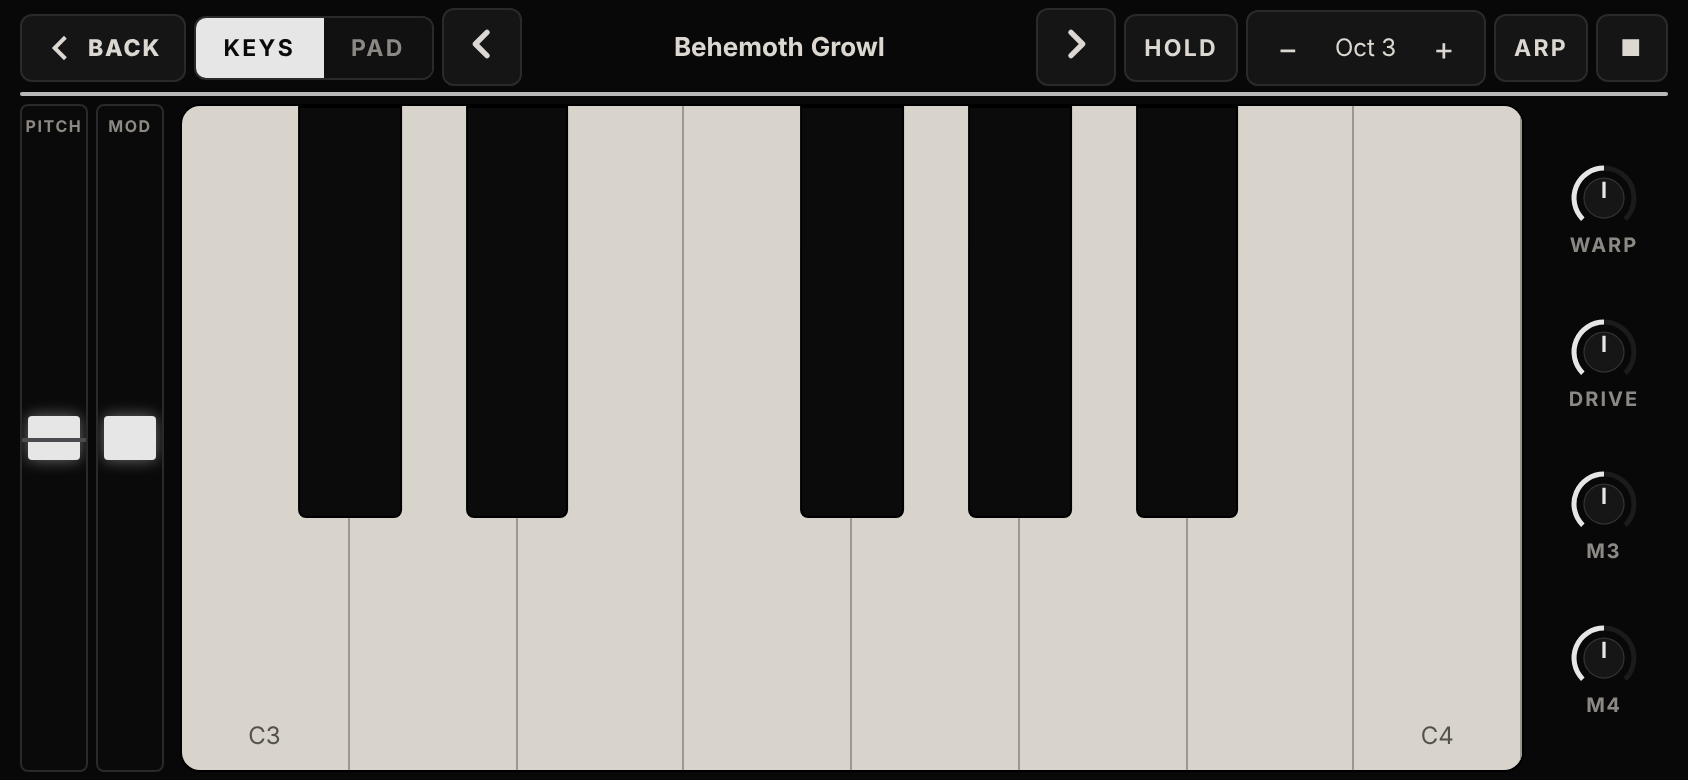
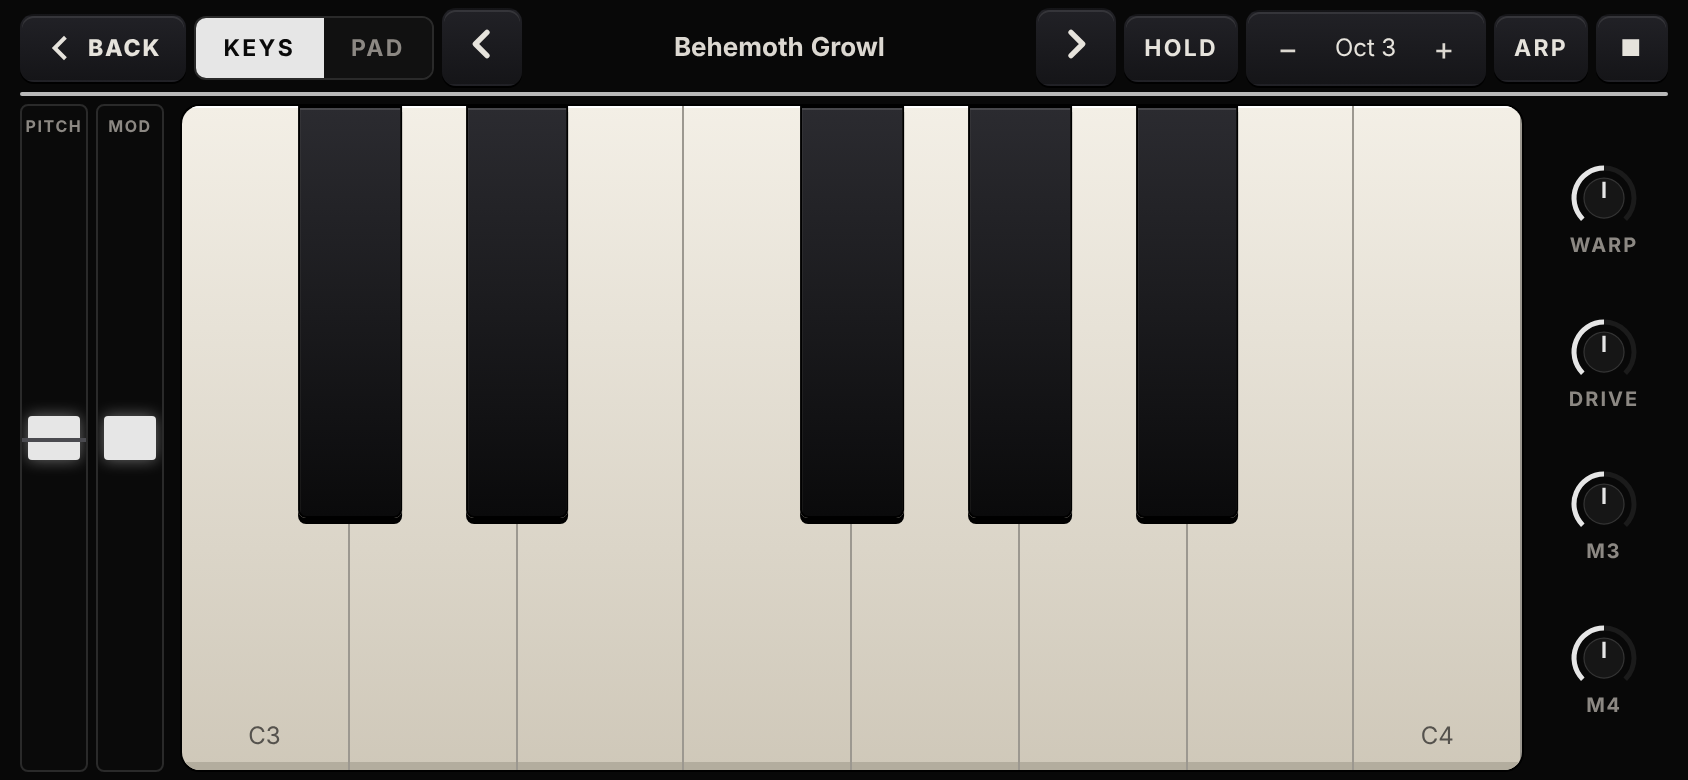
Add files via upload

diff --git a/index.html b/index.html
@@ -116,11 +116,11 @@ input[type=range]::-moz-range-thumb { width: 22px; height: 22px; border-radius: 
 .empty { color: var(--dim); font-size: 12px; padding: 6px 2px 8px; line-height: 1.5; }
 
 /* play */
-#surface, #surfaceQ , #surfaceS, #surfaceD { position: relative; display: grid; grid-template-columns: repeat(8, 1fr); height: 210px; border-radius: 14px; overflow: hidden; background: #060607; border: 1px solid var(--line); touch-action: none; }
-#surface .cell, #surfaceQ .cell, #surfaceS .cell, #surfaceD .cell { border-right: 1px solid #141415; position: relative; display: flex; align-items: flex-end; justify-content: center; padding-bottom: 8px; font-family: var(--f-mono); font-size: 11px; color: var(--dim); transition: background .08s; }
-#surface .cell.root, #surfaceQ .cell.root, #surfaceS .cell.root, #surfaceD .cell.root { background: #0e0e0f; color: var(--mute); }
-#surface .cell.on, #surfaceQ .cell.on, #surfaceS .cell.on, #surfaceD .cell.on { color: var(--fg); }
-#surface .dotp, #surfaceQ .dotp, #surfaceS .dotp, #surfaceD .dotp { position: absolute; width: 46px; height: 46px; margin: -23px 0 0 -23px; border-radius: 50%; border: 2px solid var(--c-touch); background: color-mix(in srgb, var(--c-touch) 28%, transparent); pointer-events: none; display: none; }
+#surface, #surfaceQ , #surfaceS { position: relative; display: grid; grid-template-columns: repeat(8, 1fr); height: 210px; border-radius: 14px; overflow: hidden; background: #060607; border: 1px solid var(--line); touch-action: none; }
+#surface .cell, #surfaceQ .cell, #surfaceS .cell .cell { border-right: 1px solid #141415; position: relative; display: flex; align-items: flex-end; justify-content: center; padding-bottom: 8px; font-family: var(--f-mono); font-size: 11px; color: var(--dim); transition: background .08s; }
+#surface .cell.root, #surfaceQ .cell.root, #surfaceS .cell.root .cell.root { background: #0e0e0f; color: var(--mute); }
+#surface .cell.on, #surfaceQ .cell.on, #surfaceS .cell.on .cell.on { color: var(--fg); }
+#surface .dotp, #surfaceQ .dotp, #surfaceS .dotp .dotp { position: absolute; width: 46px; height: 46px; margin: -23px 0 0 -23px; border-radius: 50%; border: 2px solid var(--c-touch); background: color-mix(in srgb, var(--c-touch) 28%, transparent); pointer-events: none; display: none; }
 .kbd { position: relative; height: 96px; display: flex; touch-action: none; overflow: hidden; }
 .kbd .wk { flex: 1; position: relative; display: flex; align-items: flex-end; justify-content: center; padding-bottom: 5px; font-size: 10px; font-family: var(--f-mono); }
 
@@ -259,9 +259,9 @@ header#top { padding-bottom: 8px; margin-bottom: 4px; border-bottom: 1px solid v
 .knob .vv { color: var(--fg); }
 .knob.armed svg { filter: drop-shadow(0 0 6px var(--arm)); }
 
-canvas.vis, #scope, .meter, #surface, #surfaceQ, #surfaceS, #surfaceD { background: #070707; border: 1px solid #222; border-radius: 5px; box-shadow: none; }
+canvas.vis, #scope, .meter, #surface, #surfaceQ, #surfaceS { background: #070707; border: 1px solid #222; border-radius: 5px; box-shadow: none; }
 .meter b { background: linear-gradient(to top, color-mix(in srgb, var(--accent) 45%, #000), var(--accent) 70%, color-mix(in srgb, var(--accent) 60%, #fff)); }
-#surface .cell.on, #surfaceQ .cell.on, #surfaceS .cell.on, #surfaceD .cell.on { background: radial-gradient(120% 90% at 50% 100%, color-mix(in srgb, var(--accent) 40%, transparent), color-mix(in srgb, var(--accent) 6%, transparent) 70%), #070707; }
+#surface .cell.on, #surfaceQ .cell.on, #surfaceS .cell.on .cell.on { background: radial-gradient(120% 90% at 50% 100%, color-mix(in srgb, var(--accent) 40%, transparent), color-mix(in srgb, var(--accent) 6%, transparent) 70%), #070707; }
 .dotp { background: radial-gradient(circle, #fff 0 18%, var(--accent) 42%, transparent 72%) !important; }
 
 nav#tabs { background: var(--bg); border-top: 1px solid var(--line); box-shadow: none; }
@@ -678,6 +678,36 @@ button:focus-visible, .chip:focus-visible, .pill:focus-visible { outline: 2px so
   #stage .main.m-keys { justify-content: flex-end; }
   #stage .main.m-keys .kbd { max-height: 600px; }
 }
+/* Family skin (black and white): raised keys, recessed cards, dot-matrix glass.
+   Cheap to paint on a phone: no blurred shadows on repeated controls, no filters, no glow blur, no overlay layers.
+   BEHEMOTH is dense, so the key edge is a single hard pixel line and the cards stay flat. */
+/* one backdrop for the whole page, so nothing shows as a frame around the app */
+html{background:#0b0b0d}
+body{background:linear-gradient(#141417,#0b0b0d 360px) no-repeat #0b0b0d}
+#app{background:none}
+.hbtn,.pill,.pnav,.chip,.tn,.cap,.stepper{border-color:transparent;border-radius:7px;background:linear-gradient(#212126,#151518);color:#e6e3dc;box-shadow:inset 0 1px 0 #ffffff18,0 1px 0 #000}
+.hbtn:active,.pill:active,.pnav:active,.chip:active,.tn:active{transform:translateY(1px);box-shadow:inset 0 1px 0 #ffffff0e}
+.pill.on,.chip.on,.hbtn.on,.pnav.on,.tn.on,.cap.on{background:linear-gradient(#34343a,#1e1e22);color:#fff;box-shadow:inset 0 0 0 1px #f2efe8}
+.hbtn.rec,button.hbtn.rec{color:#ff6a5a}
+.card{background:linear-gradient(#101013,#0c0c0e);border:0;border-radius:12px;box-shadow:inset 0 0 0 1px #1d1d22,inset 0 2px 6px #000a}
+.glass{background:repeating-linear-gradient(0deg,#0000 0 2px,#00000026 2px 3px),radial-gradient(120% 140% at 30% 0%,#1c1c20,#08080a 70%);border-radius:9px;box-shadow:inset 0 0 0 1px #000,0 0 0 3px #17171b,0 0 0 4px #000}
+.kbd .wk{background:linear-gradient(#f3efe6,#cfc8b9);box-shadow:inset 0 -4px 0 #b3ad9e,inset 0 1px 0 #fff;border-right:1px solid #9c9890}
+.kbd .wk.on{background:var(--accent);box-shadow:none}
+.kbd .bk{background:linear-gradient(#2b2b30,#0a0a0b);box-shadow:inset 0 1px 0 #ffffff22,0 3px 0 #000}
+#rail,nav#tabs{background:linear-gradient(#0d0d10,#08080a)}
+
+/* quick number entry */
+.qnum{position:fixed;z-index:500;width:94px;height:44px;box-sizing:border-box;text-align:center;font:700 22px "Helvetica Neue",Helvetica,Arial,sans-serif;color:#fff;background:#0a0a0c;border:0;border-radius:8px;box-shadow:inset 0 0 0 2px #f2efe8,0 8px 24px #000c;outline:none;-webkit-appearance:none;appearance:none;user-select:text;-webkit-user-select:text}
+.qt{border-bottom:1px dotted #ffffff55;cursor:text}
+/* the rest of the keys: dialog buttons, snapshots, minis, the preset picker */
+.btn,.snap,.mini,.pgroup>button{border-color:transparent;border-radius:7px;background:linear-gradient(#222227,#151518);color:#e6e3dc;box-shadow:inset 0 1px 0 #ffffff1a,0 2px 0 #000}
+.btn:active,.snap:active,.mini:active{transform:translateY(1px);box-shadow:inset 0 1px 0 #ffffff0e,0 1px 0 #000}
+.btn.pri{background:linear-gradient(#f3efe6,#d2cbbc);color:#1a1a1d;box-shadow:inset 0 1px 0 #fff,0 2px 0 #7d7666}
+.btn.on,.snap.on,.mini.on,.chip.on,.pill.on{background:linear-gradient(#34343a,#1e1e22)!important;color:#fff!important;box-shadow:inset 0 0 0 1px #f2efe8,0 2px 0 #000!important}
+
+/* portrait: option rows wrap instead of running off the edge; the source bar scrolls and fades at the right */
+@media (orientation:portrait){.chips{flex-wrap:wrap;overflow:visible}}
+#srcbar{-webkit-mask-image:linear-gradient(90deg,#000 calc(100% - 22px),#0000);mask-image:linear-gradient(90deg,#000 calc(100% - 22px),#0000)}
 </style>
 </head>
 <body>
@@ -2275,10 +2305,26 @@ function Switch(k, cb) {
   function fn() { s.classList.toggle('on', P[k] >= 0.5); }
   binders.push({ k: k, fn: fn }); fn(); return s;
 }
+/* Quick number entry: tap a counter, type the value, Enter or tap away to apply, Escape to cancel */
+function quickNum(anchor, cur, min, max, apply) {
+  var r = anchor.getBoundingClientRect(), i = document.createElement('input'), done = false;
+  i.type = 'text'; i.inputMode = 'numeric'; i.setAttribute('pattern', '[0-9]*'); i.value = Math.round(cur); i.className = 'qnum'; i.setAttribute('aria-label', 'Type a value');
+  i.style.left = Math.max(6, Math.min(innerWidth - 100, r.left + r.width / 2 - 47)) + 'px'; i.style.top = Math.max(6, r.top + r.height / 2 - 22) + 'px';
+  document.body.appendChild(i); i.focus(); i.select();
+  function fin(ok) {
+    if (done) return; done = true;
+    var v = parseFloat(String(i.value).replace(',', '.'));
+    if (ok && isFinite(v)) apply(Math.min(max, Math.max(min, Math.round(v))));
+    if (i.parentNode) i.parentNode.removeChild(i);
+  }
+  i.addEventListener('keydown', function (e) { if (e.key === 'Enter') fin(true); else if (e.key === 'Escape') fin(false); e.stopPropagation(); });
+  i.addEventListener('blur', function () { fin(true); });
+}
 function Stepper(k, step, fmt, min, max) {
   var sp = h('span'), lo = min !== undefined ? min : S.PARAMS[k][1], hi = max !== undefined ? max : S.PARAMS[k][2];
   var st = h('div', { class: 'stepper' }, h('button', { type: 'button', onclick: function () { setP(k, clamp(P[k] - step, lo, hi)); } }, '−'), sp, h('button', { type: 'button', onclick: function () { setP(k, clamp(P[k] + step, lo, hi)); } }, '+'));
   function fn() { sp.textContent = fmt(P[k]); }
+  if (k === 'bpm') { sp.className = 'qt'; sp.setAttribute('role', 'button'); sp.setAttribute('aria-label', 'Tempo: tap to type a value'); sp.addEventListener('click', function () { quickNum(sp, P[k], lo, hi, function (v) { setP(k, v); }); }); }
   binders.push({ k: k, fn: fn }); fn(); return st;
 }
 function card(title, kids, cls, right) {

diff --git a/src/css/family.css b/src/css/family.css
@@ -1,0 +1,30 @@
+/* Family skin (black and white): raised keys, recessed cards, dot-matrix glass.
+   Cheap to paint on a phone: no blurred shadows on repeated controls, no filters, no glow blur, no overlay layers.
+   BEHEMOTH is dense, so the key edge is a single hard pixel line and the cards stay flat. */
+/* one backdrop for the whole page, so nothing shows as a frame around the app */
+html{background:#0b0b0d}
+body{background:linear-gradient(#141417,#0b0b0d 360px) no-repeat #0b0b0d}
+#app{background:none}
+.hbtn,.pill,.pnav,.chip,.tn,.cap,.stepper{border-color:transparent;border-radius:7px;background:linear-gradient(#212126,#151518);color:#e6e3dc;box-shadow:inset 0 1px 0 #ffffff18,0 1px 0 #000}
+.hbtn:active,.pill:active,.pnav:active,.chip:active,.tn:active{transform:translateY(1px);box-shadow:inset 0 1px 0 #ffffff0e}
+.pill.on,.chip.on,.hbtn.on,.pnav.on,.tn.on,.cap.on{background:linear-gradient(#34343a,#1e1e22);color:#fff;box-shadow:inset 0 0 0 1px #f2efe8}
+.hbtn.rec,button.hbtn.rec{color:#ff6a5a}
+.card{background:linear-gradient(#101013,#0c0c0e);border:0;border-radius:12px;box-shadow:inset 0 0 0 1px #1d1d22,inset 0 2px 6px #000a}
+.glass{background:repeating-linear-gradient(0deg,#0000 0 2px,#00000026 2px 3px),radial-gradient(120% 140% at 30% 0%,#1c1c20,#08080a 70%);border-radius:9px;box-shadow:inset 0 0 0 1px #000,0 0 0 3px #17171b,0 0 0 4px #000}
+.kbd .wk{background:linear-gradient(#f3efe6,#cfc8b9);box-shadow:inset 0 -4px 0 #b3ad9e,inset 0 1px 0 #fff;border-right:1px solid #9c9890}
+.kbd .wk.on{background:var(--accent);box-shadow:none}
+.kbd .bk{background:linear-gradient(#2b2b30,#0a0a0b);box-shadow:inset 0 1px 0 #ffffff22,0 3px 0 #000}
+#rail,nav#tabs{background:linear-gradient(#0d0d10,#08080a)}
+
+/* quick number entry */
+.qnum{position:fixed;z-index:500;width:94px;height:44px;box-sizing:border-box;text-align:center;font:700 22px "Helvetica Neue",Helvetica,Arial,sans-serif;color:#fff;background:#0a0a0c;border:0;border-radius:8px;box-shadow:inset 0 0 0 2px #f2efe8,0 8px 24px #000c;outline:none;-webkit-appearance:none;appearance:none;user-select:text;-webkit-user-select:text}
+.qt{border-bottom:1px dotted #ffffff55;cursor:text}
+/* the rest of the keys: dialog buttons, snapshots, minis, the preset picker */
+.btn,.snap,.mini,.pgroup>button{border-color:transparent;border-radius:7px;background:linear-gradient(#222227,#151518);color:#e6e3dc;box-shadow:inset 0 1px 0 #ffffff1a,0 2px 0 #000}
+.btn:active,.snap:active,.mini:active{transform:translateY(1px);box-shadow:inset 0 1px 0 #ffffff0e,0 1px 0 #000}
+.btn.pri{background:linear-gradient(#f3efe6,#d2cbbc);color:#1a1a1d;box-shadow:inset 0 1px 0 #fff,0 2px 0 #7d7666}
+.btn.on,.snap.on,.mini.on,.chip.on,.pill.on{background:linear-gradient(#34343a,#1e1e22)!important;color:#fff!important;box-shadow:inset 0 0 0 1px #f2efe8,0 2px 0 #000!important}
+
+/* portrait: option rows wrap instead of running off the edge; the source bar scrolls and fades at the right */
+@media (orientation:portrait){.chips{flex-wrap:wrap;overflow:visible}}
+#srcbar{-webkit-mask-image:linear-gradient(90deg,#000 calc(100% - 22px),#0000);mask-image:linear-gradient(90deg,#000 calc(100% - 22px),#0000)}

diff --git a/src/css/base.css b/src/css/base.css
@@ -93,11 +93,11 @@ input[type=range]::-moz-range-thumb { width: 22px; height: 22px; border-radius: 
 .empty { color: var(--dim); font-size: 12px; padding: 6px 2px 8px; line-height: 1.5; }
 
 /* play */
-#surface, #surfaceQ , #surfaceS, #surfaceD { position: relative; display: grid; grid-template-columns: repeat(8, 1fr); height: 210px; border-radius: 14px; overflow: hidden; background: #060607; border: 1px solid var(--line); touch-action: none; }
-#surface .cell, #surfaceQ .cell, #surfaceS .cell, #surfaceD .cell { border-right: 1px solid #141415; position: relative; display: flex; align-items: flex-end; justify-content: center; padding-bottom: 8px; font-family: var(--f-mono); font-size: 11px; color: var(--dim); transition: background .08s; }
-#surface .cell.root, #surfaceQ .cell.root, #surfaceS .cell.root, #surfaceD .cell.root { background: #0e0e0f; color: var(--mute); }
-#surface .cell.on, #surfaceQ .cell.on, #surfaceS .cell.on, #surfaceD .cell.on { color: var(--fg); }
-#surface .dotp, #surfaceQ .dotp, #surfaceS .dotp, #surfaceD .dotp { position: absolute; width: 46px; height: 46px; margin: -23px 0 0 -23px; border-radius: 50%; border: 2px solid var(--c-touch); background: color-mix(in srgb, var(--c-touch) 28%, transparent); pointer-events: none; display: none; }
+#surface, #surfaceQ , #surfaceS { position: relative; display: grid; grid-template-columns: repeat(8, 1fr); height: 210px; border-radius: 14px; overflow: hidden; background: #060607; border: 1px solid var(--line); touch-action: none; }
+#surface .cell, #surfaceQ .cell, #surfaceS .cell .cell { border-right: 1px solid #141415; position: relative; display: flex; align-items: flex-end; justify-content: center; padding-bottom: 8px; font-family: var(--f-mono); font-size: 11px; color: var(--dim); transition: background .08s; }
+#surface .cell.root, #surfaceQ .cell.root, #surfaceS .cell.root .cell.root { background: #0e0e0f; color: var(--mute); }
+#surface .cell.on, #surfaceQ .cell.on, #surfaceS .cell.on .cell.on { color: var(--fg); }
+#surface .dotp, #surfaceQ .dotp, #surfaceS .dotp .dotp { position: absolute; width: 46px; height: 46px; margin: -23px 0 0 -23px; border-radius: 50%; border: 2px solid var(--c-touch); background: color-mix(in srgb, var(--c-touch) 28%, transparent); pointer-events: none; display: none; }
 .kbd { position: relative; height: 96px; display: flex; touch-action: none; overflow: hidden; }
 .kbd .wk { flex: 1; position: relative; display: flex; align-items: flex-end; justify-content: center; padding-bottom: 5px; font-size: 10px; font-family: var(--f-mono); }
 

diff --git a/src/ui/knob.js b/src/ui/knob.js
@@ -115,10 +115,26 @@ function Switch(k, cb) {
   function fn() { s.classList.toggle('on', P[k] >= 0.5); }
   binders.push({ k: k, fn: fn }); fn(); return s;
 }
+/* Quick number entry: tap a counter, type the value, Enter or tap away to apply, Escape to cancel */
+function quickNum(anchor, cur, min, max, apply) {
+  var r = anchor.getBoundingClientRect(), i = document.createElement('input'), done = false;
+  i.type = 'text'; i.inputMode = 'numeric'; i.setAttribute('pattern', '[0-9]*'); i.value = Math.round(cur); i.className = 'qnum'; i.setAttribute('aria-label', 'Type a value');
+  i.style.left = Math.max(6, Math.min(innerWidth - 100, r.left + r.width / 2 - 47)) + 'px'; i.style.top = Math.max(6, r.top + r.height / 2 - 22) + 'px';
+  document.body.appendChild(i); i.focus(); i.select();
+  function fin(ok) {
+    if (done) return; done = true;
+    var v = parseFloat(String(i.value).replace(',', '.'));
+    if (ok && isFinite(v)) apply(Math.min(max, Math.max(min, Math.round(v))));
+    if (i.parentNode) i.parentNode.removeChild(i);
+  }
+  i.addEventListener('keydown', function (e) { if (e.key === 'Enter') fin(true); else if (e.key === 'Escape') fin(false); e.stopPropagation(); });
+  i.addEventListener('blur', function () { fin(true); });
+}
 function Stepper(k, step, fmt, min, max) {
   var sp = h('span'), lo = min !== undefined ? min : S.PARAMS[k][1], hi = max !== undefined ? max : S.PARAMS[k][2];
   var st = h('div', { class: 'stepper' }, h('button', { type: 'button', onclick: function () { setP(k, clamp(P[k] - step, lo, hi)); } }, '−'), sp, h('button', { type: 'button', onclick: function () { setP(k, clamp(P[k] + step, lo, hi)); } }, '+'));
   function fn() { sp.textContent = fmt(P[k]); }
+  if (k === 'bpm') { sp.className = 'qt'; sp.setAttribute('role', 'button'); sp.setAttribute('aria-label', 'Tempo: tap to type a value'); sp.addEventListener('click', function () { quickNum(sp, P[k], lo, hi, function (v) { setP(k, v); }); }); }
   binders.push({ k: k, fn: fn }); fn(); return st;
 }
 function card(title, kids, cls, right) {

diff --git a/src/css/skin.css b/src/css/skin.css
@@ -36,9 +36,9 @@ header#top { padding-bottom: 8px; margin-bottom: 4px; border-bottom: 1px solid v
 .knob .vv { color: var(--fg); }
 .knob.armed svg { filter: drop-shadow(0 0 6px var(--arm)); }
 
-canvas.vis, #scope, .meter, #surface, #surfaceQ, #surfaceS, #surfaceD { background: #070707; border: 1px solid #222; border-radius: 5px; box-shadow: none; }
+canvas.vis, #scope, .meter, #surface, #surfaceQ, #surfaceS { background: #070707; border: 1px solid #222; border-radius: 5px; box-shadow: none; }
 .meter b { background: linear-gradient(to top, color-mix(in srgb, var(--accent) 45%, #000), var(--accent) 70%, color-mix(in srgb, var(--accent) 60%, #fff)); }
-#surface .cell.on, #surfaceQ .cell.on, #surfaceS .cell.on, #surfaceD .cell.on { background: radial-gradient(120% 90% at 50% 100%, color-mix(in srgb, var(--accent) 40%, transparent), color-mix(in srgb, var(--accent) 6%, transparent) 70%), #070707; }
+#surface .cell.on, #surfaceQ .cell.on, #surfaceS .cell.on .cell.on { background: radial-gradient(120% 90% at 50% 100%, color-mix(in srgb, var(--accent) 40%, transparent), color-mix(in srgb, var(--accent) 6%, transparent) 70%), #070707; }
 .dotp { background: radial-gradient(circle, #fff 0 18%, var(--accent) 42%, transparent 72%) !important; }
 
 nav#tabs { background: var(--bg); border-top: 1px solid var(--line); box-shadow: none; }

diff --git a/sw.js b/sw.js
@@ -1,5 +1,5 @@
 /* Offline cache: BEHEMOTH is one HTML file plus its icons. Bump VERSION to force clients to refresh. */
-const VERSION = 'behemoth-v47';
+const VERSION = 'behemoth-v48';
 const FILES = ['./', './index.html', './manifest.webmanifest', './icons/icon.svg', './icons/icon-180.png', './icons/icon-192.png', './icons/icon-512.png'];
 self.addEventListener('install', e => { e.waitUntil(caches.open(VERSION).then(c => c.addAll(FILES)).then(() => self.skipWaiting())); });
 self.addEventListener('activate', e => { e.waitUntil(caches.keys().then(ks => Promise.all(ks.filter(k => k !== VERSION).map(k => caches.delete(k)))).then(() => self.clients.claim())); });

diff --git a/tools/shots.py b/tools/shots.py
@@ -2,15 +2,14 @@
 import os
 from playwright.sync_api import sync_playwright
 D=os.path.dirname(os.path.dirname(os.path.abspath(__file__)))+'/'
-os.makedirs(D+'screenshots',exist_ok=True)
-P=(390,844); L=(844,390); T=(820,1180)
+import shutil
+shutil.rmtree(D+'screenshots',ignore_errors=True);os.makedirs(D+'screenshots',exist_ok=True)
+P=(390,844); L=(844,390); T=(820,1180); TL=(1180,820)
 TAB=lambda t:"document.querySelector('nav#tabs button[data-t=%s]').click()"%t
 STG=lambda m:"document.querySelector('.hbtn.stg').click();setTimeout(()=>{const b=[...document.querySelectorAll('#stage .bar button, #stage button')].find(x=>x.textContent.trim()==='%s');b&&b.click()},200)"%m
-S=[('sound',P,TAB('sound')),('modulation',P,TAB('mod')),('effects',P,TAB('fx')),('play',P,TAB('play')),
-   ('wavetable-editor',P,"document.querySelector('.tn').click()"),
+S=[('sound',P,TAB('sound')),('modulation',P,TAB('mod')),('play',P,TAB('play')),
    ('presets',P,"document.querySelector('#presetBtn').click()"),
-   ('landscape',L,TAB('sound')),('landscape-stage',L,STG('KEYS')),('landscape-stage-pad',L,STG('PAD')),
-   ('tablet',T,TAB('sound'))]
+   ('landscape-stage',L,STG('KEYS')),('tablet-portrait',T,TAB('sound')),('tablet-landscape',TL,TAB('sound'))]
 with sync_playwright() as p:
     b=p.chromium.launch(args=['--autoplay-policy=no-user-gesture-required'])
     for name,(w,h),js in S:

diff --git a/README.md b/README.md
@@ -6,29 +6,23 @@ A wavetable bass synthesizer that runs in the browser. One HTML file, no depende
 
 ## Screenshots
 
-Phone upright: SOUND, MOD, FX and PLAY tabs, the wavetable editor, and the preset browser. The compact keyboard stays at the bottom of every tab.
+Black-and-white look shared with the family: raised keys, a dot-matrix display, a milky keyboard. Phone upright (SOUND, MOD, PLAY, presets), Stage on a phone held sideways, and a tablet in both orientations.
 
 <p>
   <img src="screenshots/sound.png" width="24%" alt="Sound: wavetable oscillator with 3D table view">
   <img src="screenshots/modulation.png" width="24%" alt="Modulation: macros and LFOs">
-  <img src="screenshots/effects.png" width="24%" alt="Effects: drive, chorus, delay, reverb">
   <img src="screenshots/play.png" width="24%" alt="Play: living surface, scale and arpeggiator">
-</p>
-<p>
-  <img src="screenshots/wavetable-editor.png" width="24%" alt="Wavetable editor">
   <img src="screenshots/presets.png" width="24%" alt="Preset browser">
 </p>
-
-Phone held sideways and a tablet (a permanent tab rail on tablets): the tabs move to a side rail, and Stage turns the whole screen into an instrument.
-
 <p>
-  <img src="screenshots/landscape.png" width="49%" alt="Landscape layout">
-  <img src="screenshots/landscape-stage.png" width="49%" alt="Landscape Stage: pitch and mod wheels on the left, one big keyboard, a column of four macro encoders on the right">
+  <img src="screenshots/landscape-stage.png" width="49%" alt="Landscape Stage: wheels, one big keyboard, four macro encoders">
+  <img src="screenshots/tablet-landscape.png" width="49%" alt="Tablet, landscape">
 </p>
 <p>
-  <img src="screenshots/landscape-stage-pad.png" width="49%" alt="Landscape Stage: multi-touch pad">
-  <img src="screenshots/tablet.png" width="30%" alt="Tablet layout">
+  <img src="screenshots/tablet-portrait.png" width="40%" alt="Tablet, portrait">
 </p>
+
+Tap the BPM number to type a tempo.
 
 ## Playing
 

diff --git a/CHANGELOG.md b/CHANGELOG.md
@@ -1,6 +1,9 @@
 # Changelog
 
 ## Unreleased
+- Family skin (black and white): raised keys, recessed cards, dot-matrix glass, milky keyboard; the buttons and menus share one key language (a flatter, one-pixel edge here, because the screens are dense).
+- Tap the tempo value in the arpeggiator to type a tempo.
+- One backdrop behind the whole page.
 - Stage: SPLIT and the MACRO tab are gone (KEYS | PAD). One big keyboard fills the height, pitch and mod wheels sit on the left and the four macros are a column of encoders on the right (mirrored for left-handed mode) and the octave strip is gone (use - / +).
 - Portrait: the expandable keys/pad window is removed (it duplicated the PLAY tab and Stage); the compact dock keyboard stays on every tab for auditioning sounds.
 - Unified OLED panel (caption, dot-matrix name with Cyrillic, scope) shared by GRAINS, ELEPHANT and BEHEMOTH.
